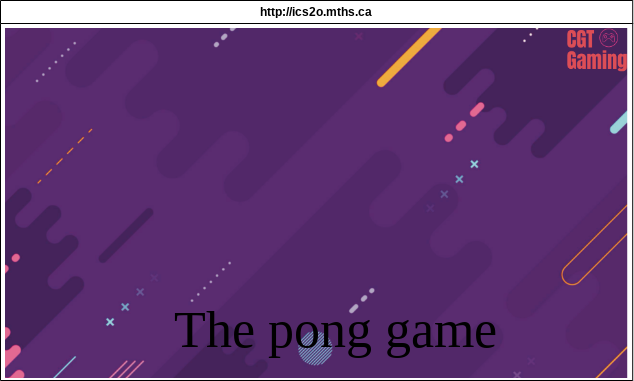
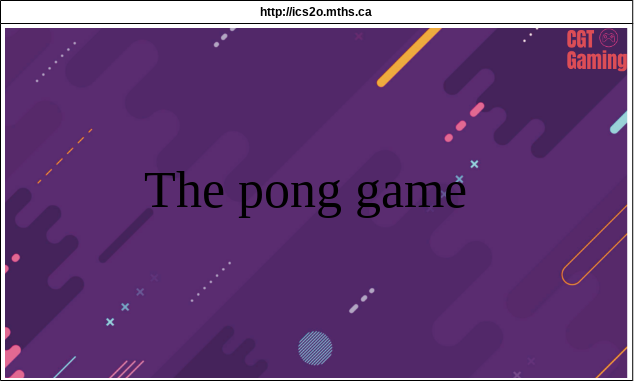
Final commit small fix in story board

Changed region(s): [[0.2697, 0.8084, 0.7792, 0.9528], [0.2098, 0.4331, 0.7492, 0.5774]]

diff --git a/js/titleScene.js b/js/titleScene.js
@@ -36,7 +36,7 @@ class TitleScene extends Phaser.Scene {
         this.titleSceneBackgroundImage.y = 1080 / 2
 
         this.titleSceneText = this.add
-            .text(1920 / 2, 1080 / 2 + 350, "The pong game", this.titleSceneTextStyle)
+            .text(1920 / 2, 1080 / 2, "The pong game", this.titleSceneTextStyle)
             .setOrigin(0.5)
     }
 
